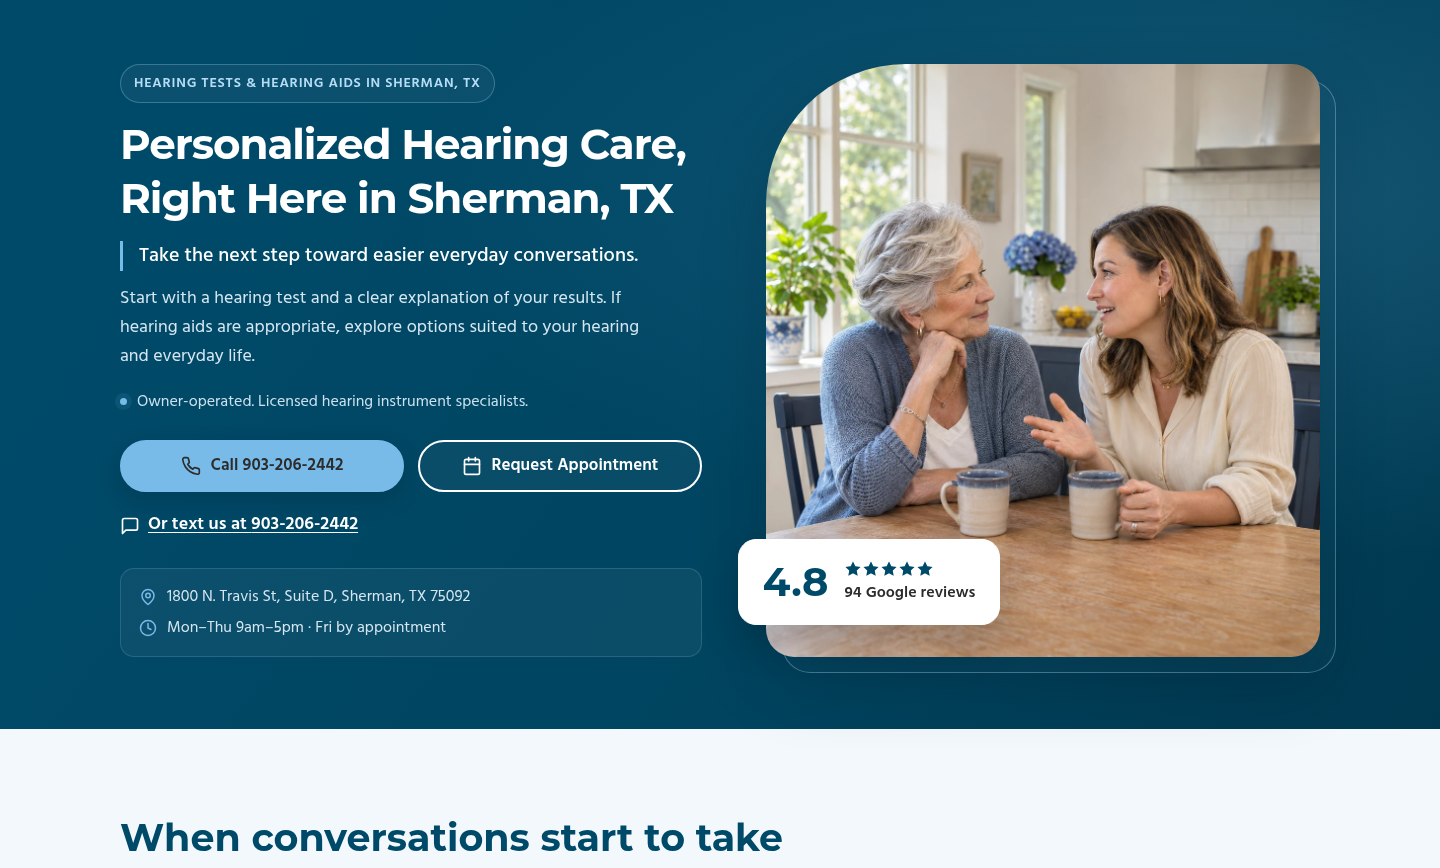
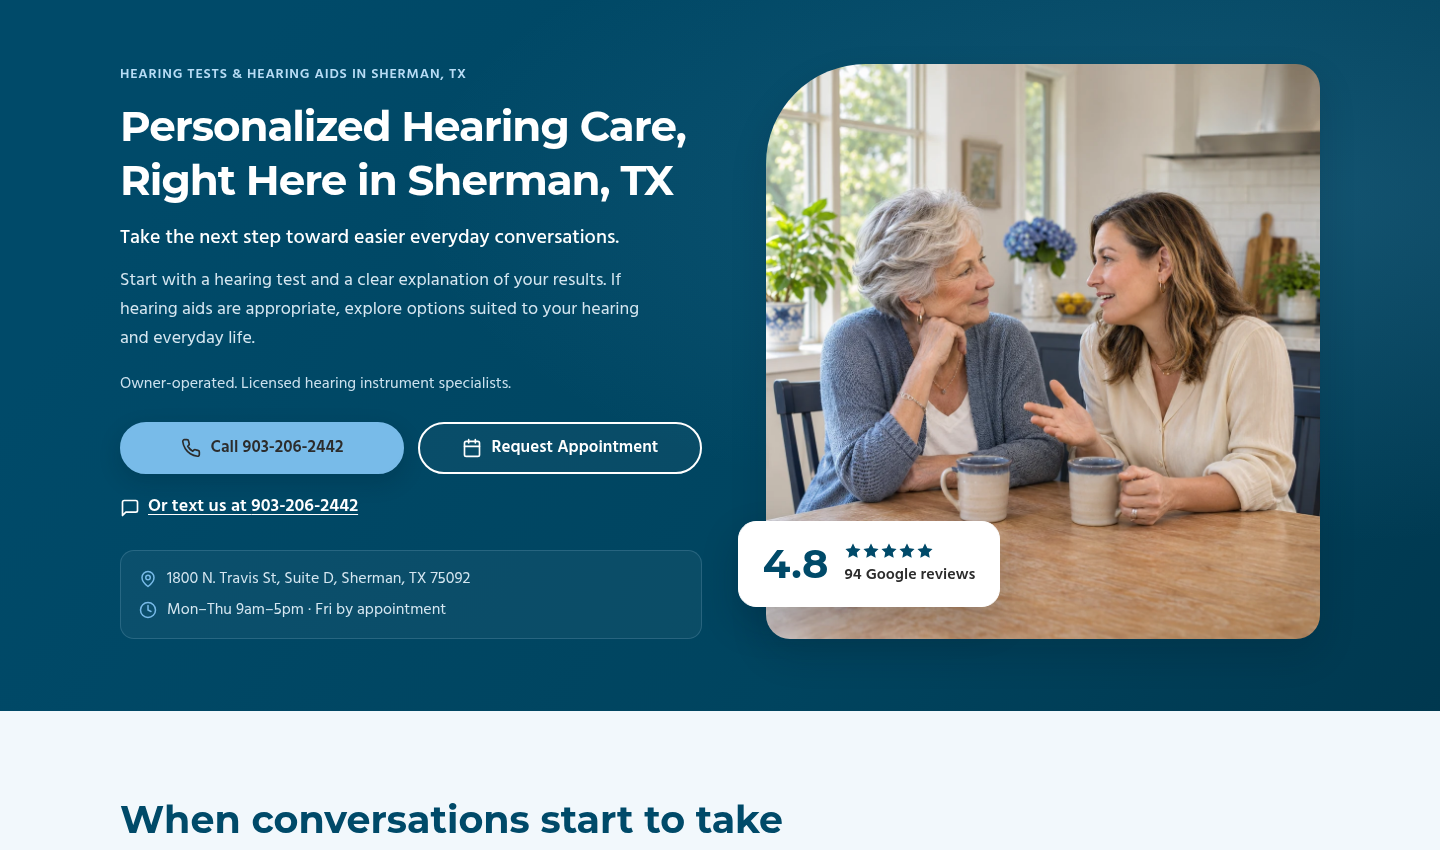
Simplify Hero decoration and allow natural mobile headline flow

diff --git a/index.html b/index.html
@@ -219,7 +219,7 @@ a:hover{ color:var(--hc-navy); }
   .hc-facts{ margin-top:18px; }
   .hc-hero__media{ margin-top:30px; min-height:0; aspect-ratio:4 / 3; border-radius:56px 14px 14px 14px; }
   .hc-hero__media::after{ display:none; }
-  .hc-hero__media img{ object-position:50% 46%; }
+  .hc-hero__media img{ object-position:50% 55%; }
 }
 @media (max-width:639px){
   .hc-hero--split{ padding:32px 0 36px; }
@@ -237,13 +237,13 @@ a:hover{ color:var(--hc-navy); }
 
 /* Visual refinement: approved Hero only; headline styling remains unchanged. */
 .hc-hero--split{ isolation:isolate; background:radial-gradient(ellipse at 88% 28%,rgba(120,187,233,.16),transparent 48%),linear-gradient(125deg,#004a69 15%,#00445f 65%,#00384f 100%); }
-.hc-hero__eyebrow{ display:inline-flex; align-items:center; padding:8px 13px; border:1px solid rgba(183,220,245,.27); border-radius:999px; background:rgba(255,255,255,.045); }
-.hc-hero__benefit{ padding-left:16px; border-left:3px solid var(--hc-sky); max-width:540px; }
+.hc-hero__eyebrow{ display:block; padding:0; border:0; background:none; }
+.hc-hero__benefit{ padding-left:0; border:0; max-width:540px; }
 .hc-hero__lead{ max-width:540px; }
 .hc-hero__trust{ display:flex; align-items:center; gap:10px; }
-.hc-hero__trust::before{ content:""; width:7px; height:7px; flex:0 0 7px; border-radius:50%; background:var(--hc-sky); box-shadow:0 0 0 5px rgba(120,187,233,.1); }
-.hc-hero__media{ border-radius:140px 28px 28px 28px; box-shadow:0 28px 65px rgba(0,20,32,.24); }
-.hc-hero__media::after{ inset:16px -16px -16px 16px; border-radius:140px 28px 28px 28px; border-color:rgba(183,220,245,.34); background:rgba(120,187,233,.035); }
+.hc-hero__trust::before{ display:none; }
+.hc-hero__media{ min-height:530px; border-radius:100px 24px 24px 24px; box-shadow:0 16px 36px rgba(0,20,32,.16); }
+.hc-hero__media::after{ display:none; }
 .hc-hero__media img{ object-position:51% 75%; }
 .hc-hero--split .hc-btn--call{ box-shadow:0 8px 22px rgba(0,20,32,.18); }
 .hc-hero--split .hc-btn--appt{ background:rgba(255,255,255,.035); }
@@ -251,15 +251,23 @@ a:hover{ color:var(--hc-navy); }
 .hc-facts{ margin-top:20px; padding:16px 18px; background:rgba(255,255,255,.045); border:1px solid rgba(183,220,245,.17); border-radius:14px; }
 .hc-badge{ padding:20px 24px; border-radius:18px; box-shadow:0 16px 36px rgba(0,20,32,.22); }
 @media (max-width:1023px){
- .hc-hero__media{ border-radius:72px 20px 20px 20px; }
+ .hc-hero__media{ min-height:0; border-radius:56px 18px 18px 18px; }
  .hc-hero__media img{ object-position:50% 46%; }
  .hc-badge{ padding:12px 16px; border-radius:12px; box-shadow:0 8px 20px rgba(0,20,32,.1); }
 }
 @media (max-width:639px){
- .hc-hero__eyebrow{ display:block; width:fit-content; padding:7px 11px; font-size:.8125rem; }
- .hc-hero__benefit{ padding-left:12px; }
- .hc-facts{ padding:14px; }
- .hc-hero__media{ border-radius:56px 16px 16px 16px; }
+ .hc-hero--split{ padding:28px 0; }
+ .hc-hero--split h1{ text-wrap:wrap; }
+ .hc-hero--split h1 > span{ display:inline; }
+ .hc-hero--split .hc-hero__headline-local{ margin-top:0; }
+ .hc-hero__eyebrow{ width:auto; padding:0; font-size:.875rem; }
+ .hc-hero__benefit{ margin-top:12px; padding-left:0; }
+ .hc-hero__lead{ margin-top:12px; }
+ .hc-hero__trust{ margin-top:12px; }
+ .hc-badge{ margin-top:14px; }
+ .hc-hero__actions{ margin-top:16px; }
+ .hc-facts{ margin-top:14px; padding:12px 14px; }
+ .hc-hero__media{ margin-top:20px; border-radius:40px 16px 16px 16px; }
 }
 
 /* Stars */

diff --git a/review/hero-review.html b/review/hero-review.html
@@ -219,7 +219,7 @@ a:hover{ color:var(--hc-navy); }
   .hc-facts{ margin-top:18px; }
   .hc-hero__media{ margin-top:30px; min-height:0; aspect-ratio:4 / 3; border-radius:56px 14px 14px 14px; }
   .hc-hero__media::after{ display:none; }
-  .hc-hero__media img{ object-position:50% 46%; }
+  .hc-hero__media img{ object-position:50% 55%; }
 }
 @media (max-width:639px){
   .hc-hero--split{ padding:32px 0 36px; }
@@ -237,13 +237,13 @@ a:hover{ color:var(--hc-navy); }
 
 /* Visual refinement: approved Hero only; headline styling remains unchanged. */
 .hc-hero--split{ isolation:isolate; background:radial-gradient(ellipse at 88% 28%,rgba(120,187,233,.16),transparent 48%),linear-gradient(125deg,#004a69 15%,#00445f 65%,#00384f 100%); }
-.hc-hero__eyebrow{ display:inline-flex; align-items:center; padding:8px 13px; border:1px solid rgba(183,220,245,.27); border-radius:999px; background:rgba(255,255,255,.045); }
-.hc-hero__benefit{ padding-left:16px; border-left:3px solid var(--hc-sky); max-width:540px; }
+.hc-hero__eyebrow{ display:block; padding:0; border:0; background:none; }
+.hc-hero__benefit{ padding-left:0; border:0; max-width:540px; }
 .hc-hero__lead{ max-width:540px; }
 .hc-hero__trust{ display:flex; align-items:center; gap:10px; }
-.hc-hero__trust::before{ content:""; width:7px; height:7px; flex:0 0 7px; border-radius:50%; background:var(--hc-sky); box-shadow:0 0 0 5px rgba(120,187,233,.1); }
-.hc-hero__media{ border-radius:140px 28px 28px 28px; box-shadow:0 28px 65px rgba(0,20,32,.24); }
-.hc-hero__media::after{ inset:16px -16px -16px 16px; border-radius:140px 28px 28px 28px; border-color:rgba(183,220,245,.34); background:rgba(120,187,233,.035); }
+.hc-hero__trust::before{ display:none; }
+.hc-hero__media{ min-height:530px; border-radius:100px 24px 24px 24px; box-shadow:0 16px 36px rgba(0,20,32,.16); }
+.hc-hero__media::after{ display:none; }
 .hc-hero__media img{ object-position:51% 75%; }
 .hc-hero--split .hc-btn--call{ box-shadow:0 8px 22px rgba(0,20,32,.18); }
 .hc-hero--split .hc-btn--appt{ background:rgba(255,255,255,.035); }
@@ -251,15 +251,23 @@ a:hover{ color:var(--hc-navy); }
 .hc-facts{ margin-top:20px; padding:16px 18px; background:rgba(255,255,255,.045); border:1px solid rgba(183,220,245,.17); border-radius:14px; }
 .hc-badge{ padding:20px 24px; border-radius:18px; box-shadow:0 16px 36px rgba(0,20,32,.22); }
 @media (max-width:1023px){
- .hc-hero__media{ border-radius:72px 20px 20px 20px; }
+ .hc-hero__media{ min-height:0; border-radius:56px 18px 18px 18px; }
  .hc-hero__media img{ object-position:50% 46%; }
  .hc-badge{ padding:12px 16px; border-radius:12px; box-shadow:0 8px 20px rgba(0,20,32,.1); }
 }
 @media (max-width:639px){
- .hc-hero__eyebrow{ display:block; width:fit-content; padding:7px 11px; font-size:.8125rem; }
- .hc-hero__benefit{ padding-left:12px; }
- .hc-facts{ padding:14px; }
- .hc-hero__media{ border-radius:56px 16px 16px 16px; }
+ .hc-hero--split{ padding:28px 0; }
+ .hc-hero--split h1{ text-wrap:wrap; }
+ .hc-hero--split h1 > span{ display:inline; }
+ .hc-hero--split .hc-hero__headline-local{ margin-top:0; }
+ .hc-hero__eyebrow{ width:auto; padding:0; font-size:.875rem; }
+ .hc-hero__benefit{ margin-top:12px; padding-left:0; }
+ .hc-hero__lead{ margin-top:12px; }
+ .hc-hero__trust{ margin-top:12px; }
+ .hc-badge{ margin-top:14px; }
+ .hc-hero__actions{ margin-top:16px; }
+ .hc-facts{ margin-top:14px; padding:12px 14px; }
+ .hc-hero__media{ margin-top:20px; border-radius:40px 16px 16px 16px; }
 }
 
 /* Stars */

diff --git a/DESIGN_SYSTEM.md b/DESIGN_SYSTEM.md
@@ -177,3 +177,7 @@ User requested uniform color and font size throughout the entire headline and TX
 ## Hero visual refinement
 
 The user clarified that the current Hero should be made more beautiful. Apply visual styling only: restrained navy tonal depth, a fine-bordered service capsule, an accent rule beside the existing benefit, a larger sculpted photo corner with subtle offset frame/shadow, gentle CTA depth, and a contained translucent location/hours panel. Preserve every word, heading color/font size/weight, GHL-hosted image URL, proof placement, links and integration scripts. Mobile simplifies these treatments without additional imagery. Pending rendered approval; no other section is changed or locked.
+
+## Approved restrained refinement
+
+User authorized simplification and specifically requested no forced mobile break after “Care,”. On mobile, headline spans are inline with natural wrapping; headline wording, uniform white color, weight and responsive size remain unchanged. Remove the service capsule, benefit rule, trust dot and offset photo outline; retain the useful location panel and review proof. Tighten mobile spacing without reducing body text size or deleting content. Use a softer photo frame and centered mobile crop at 50% / 55%. Pending rendered approval; no section is locked.

diff --git a/PAGE_STRATEGY.md b/PAGE_STRATEGY.md
@@ -198,3 +198,7 @@ User requested uniform color and font size throughout the entire headline and TX
 ## Hero visual refinement
 
 The user clarified that the current Hero should be made more beautiful. Apply visual styling only: restrained navy tonal depth, a fine-bordered service capsule, an accent rule beside the existing benefit, a larger sculpted photo corner with subtle offset frame/shadow, gentle CTA depth, and a contained translucent location/hours panel. Preserve every word, heading color/font size/weight, GHL-hosted image URL, proof placement, links and integration scripts. Mobile simplifies these treatments without additional imagery. Pending rendered approval; no other section is changed or locked.
+
+## Approved restrained refinement
+
+User authorized simplification and specifically requested no forced mobile break after “Care,”. On mobile, headline spans are inline with natural wrapping; headline wording, uniform white color, weight and responsive size remain unchanged. Remove the service capsule, benefit rule, trust dot and offset photo outline; retain the useful location panel and review proof. Tighten mobile spacing without reducing body text size or deleting content. Use a softer photo frame and centered mobile crop at 50% / 55%. Pending rendered approval; no section is locked.

diff --git a/review/HERO_REVIEW.md b/review/HERO_REVIEW.md
@@ -60,3 +60,7 @@ Latest delivery update: the complete HTML now uses the user-supplied GHL Hero im
 ## Visual finish update
 
 User requested a more beautiful Hero. Added tonal navy depth, a restrained service capsule, benefit accent, sculpted photo frame, softer proof/CTA shadows and a compact location panel. All body markup, wording, headline typography, hosted image URL and scripts are byte-identical to the preceding version. Seven-width overflow/contact/dialog checks passed. Local screenshot previews used the existing approved image file as a cache for the supplied GHL URL; live CDN availability was not reverified. Pending user visual approval.
+
+## Restrained/mobile refinement
+
+User approved simplification and requested removal of the mobile break after Care. Headline spans now flow inline on mobile with natural wrapping; all headline colors/sizes/weight and wording are preserved. Removed the service capsule, benefit rule, trust dot and offset outline. Tightened mobile spacing without reducing prose size or removing content. Location panel and genuine review evidence remain. Source image is unchanged, with a slightly adjusted responsive crop. No body markup, links, scripts or other sections changed; awaiting rendered approval.

diff --git a/IMAGE_PROMPTS.md b/IMAGE_PROMPTS.md
@@ -200,3 +200,5 @@ If the practice can photograph an actual device it fits, in a staff member's han
 The user uploaded the approved AI-created Hero image to GHL and explicitly requested its insertion. Current IMG-HERO-01 source: https://files.leadconnectorhq.com/file/6af3305fddcd97ce5aa8a0c8/hearcare-kitchen-conversation.webp . The HTML now uses this hosted URL directly, without Base64 or the former local srcset. Existing dimensions, crop, alt, image ID and priority are preserved. Local WebP files remain archival assets; they are not the active image source. The scene remains an AI-created illustration, not practice/patient evidence.
 
 Latest visual refinement retains the GHL-hosted IMG-HERO-01 source. Desktop CSS uses object-position 51% / 75% to give the conversation more emphasis; tablet/mobile retain 50% / 46%. The frame has a larger curved corner and restrained depth. No image regeneration or factual attribution change.
+
+Restrained refinement supersedes the prior frame note: no offset outline; softer 100px upper-left desktop corner and 40px mobile corner. Mobile/tablet crop now uses 50% / 55%, preserving both faces. Source URL and image meaning remain unchanged.
